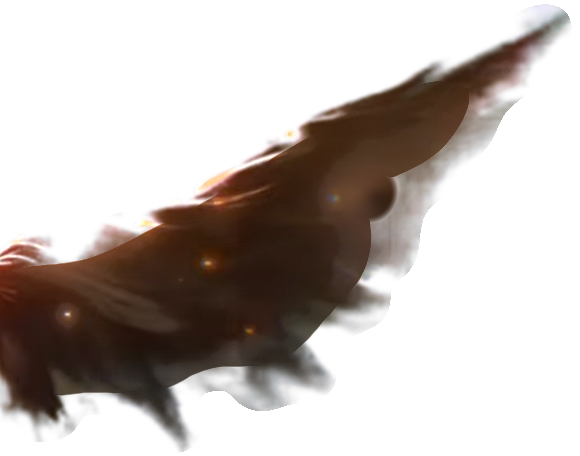
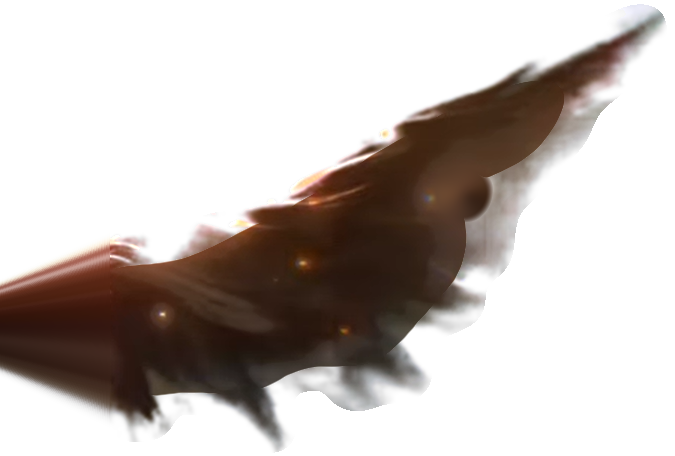
Inkweaver ult: the reference wing shot, frame for frame
- New front-on shot (2.4-4.4 s): a backdrop plate cut from the reference art (wings and her removed,
  halo ring, light shaft and chest glow painted back in) sits in front of the camera, sized to the
  letterboxed frame; the camera stands where her 1.66 m matches her height in the art and the wing
  root lands on the same art pixel, so the wings (cut from the same art) line up with it exactly.
- Wings now carry on behind her body to her spine (shared root), tips feathered where the art's
  frame cut them.
- New floating pose for the ult (inkAscend): right leg long, left knee drawn up, arms loose.
- Ult is 10.2 s; the title card and lines move after the wing shot.

Claude-Session: https://claude.ai/code/session_018wF3jSPkXDL57bnBk3Q189

diff --git a/src/game/match.js b/src/game/match.js
@@ -11,9 +11,11 @@ import '../fx/limitless.js';
 import '../fx/melee.js';
 import '../fx/heavenly.js';
 import { ChessWorld, miniBoard, MONO as MONO_PAL } from '../fx/chess.js';
-import '../fx/ink.js';
+import { PLATE, WING_ROOT } from '../fx/ink.js';
 import { CHECKMATE, ROOK, QUEEN } from './manipulator.js';
-import { ORB as INK_ORB, ERUPT as INK_ERUPT, TALISMAN } from './inkweaver.js';
+import { ORB as INK_ORB, ERUPT as INK_ERUPT, TALISMAN, WING_SHOT } from './inkweaver.js';
+const PLATE_D = 16;        // metres from the camera to the wing shot's backdrop plate
+const CINE_BAND = 0.78;    // the part of the screen height between the cutscene bars (11vh each)
 import { UnlimitedVoid } from '../world/void.js';
 import { BLUE, RED, PURPLE, VOID } from './sorcerer.js';
 import { FREEZE, BLITZ, ZERO } from './shoto.js';
@@ -1676,7 +1678,7 @@ export class Match {
     if (this.cine) this._endCine();
     const victims = [...this.ents.values()].filter((t) => t !== e && t.alive && Math.hypot(t.pos.x - c.x, t.pos.z - c.z) < TALISMAN.radius);
     this._tali = { c, f, side, caster: e, victims, done: false, rainT: 0 };
-    if (e.view) e.view.anim.play('nova');
+    if (e.view) e.view.anim.play('inkAscend');
     this.cine = { t: 0, dur: TALISMAN.cine, caster: e, c: c.clone(), o: c.clone(), f, side, cue: 0, local,
       update: this._taliCineUpdate, camera: this._taliCineCamera, end: this._taliCineEnd };
     this.app.hud.cineStart('ENDLESS TALISMAN SUPPRESSION', '');
@@ -1690,12 +1692,14 @@ export class Match {
     const until = () => !this._tali || this._tali.done;
     const cues = [
       [0.05, () => { this.fx.taiChiArray(T.c, 6.5, TALISMAN.cine - 0.3, { spin: 0.5 }); mono('Ink becomes wings. Wings become heaven.'); }],
-      [0.9, () => { if (e.view) this.fx.inkWings((out) => e.view.rig.bones[3].getWorldPosition(out), () => Math.atan2(T.f.x, T.f.z), 1.0, Infinity, { spread: 0.8, flap: 0.04, until, halo: true }); this.sound('domain', T.c, 1.1, 150); this.fx.shake(0.3); }],
-      [1.9, () => { this.fx.talismanHalo(T.c, this.map.Q.particles <= 2000 ? 36 : 80, 24, 15, () => !this._tali || this._tali.done || this._tali.haloDown); mono(''); }],
-      [2.4, () => { hud.flash(0.6); hud.cineCard('ENDLESS TALISMAN SUPPRESSION', '無 窮 符 鎮', ''); }],
-      [3.0, () => mono('Heaven and earth, hear my command.')],
-      [4.7, () => mono('Every talisman a seal. Every seal a sentence.')],
-      [6.3, () => mono('Be still.')],
+      [0.9, () => { if (e.view) T.wings = this.fx.inkWings((out) => e.view.rig.bones[3].getWorldPosition(out), () => Math.atan2(T.f.x, T.f.z), 1.0, Infinity, { spread: 0.8, flap: 0.025, until, halo: true, bare: () => !!(this._tali && this._tali.plate) }); this.sound('domain', T.c, 1.1, 150); this.fx.shake(0.3); }],
+      [1.9, () => { T.halo = this.fx.talismanHalo(T.c, this.map.Q.particles <= 2000 ? 36 : 80, 24, 15, () => !this._tali || this._tali.done || this._tali.haloDown, () => !!(this._tali && this._tali.plate)); mono(''); }],
+      // the reference shot: front-on, level, her wings filling the frame against the light behind her
+      [WING_SHOT[0], () => { hud.flash(0.45); T.plate = this.fx.inkPlate(); }],
+      [WING_SHOT[1], () => { this._taliPlateOff(); hud.flash(0.35); hud.cineCard('ENDLESS TALISMAN SUPPRESSION', '無 窮 符 鎮', ''); }],
+      [WING_SHOT[1] + 0.5, () => mono('Heaven and earth, hear my command.')],
+      [WING_SHOT[1] + 2.1, () => mono('Every talisman a seal. Every seal a sentence.')],
+      [WING_SHOT[1] + 3.4, () => mono('Be still.')],
       [TALISMAN.boom - 0.12, () => { mono(''); hud.impactFrames(() => hud.flash(1)); }],
       // the finale: every talisman in the sky comes down at once, each one detonating where it lands
       [TALISMAN.boom - 0.75, () => {
@@ -1713,7 +1717,7 @@ export class Match {
     ];
     while (C.cue < cues.length && t >= cues[C.cue][0]) cues[C.cue++][1]();
     // she rises on her wings, and comes back down at the end
-    e.liftY = t < 0.9 ? 0 : t < 2.4 ? 6 * (1 - Math.cos((t - 0.9) / 1.5 * Math.PI)) / 2 : t < TALISMAN.cine - 1.1 ? 6 + Math.sin(t * 1.6) * 0.25 : 6 * Math.max(0, (TALISMAN.cine - 0.1 - t) / 1.0);
+    e.liftY = t < 0.9 ? 0 : t < WING_SHOT[0] ? 6 * (1 - Math.cos((t - 0.9) / 1.5 * Math.PI)) / 2 : t < TALISMAN.cine - 1.1 ? 6 + Math.sin(t * 1.6) * 0.25 : 6 * Math.max(0, (TALISMAN.cine - 0.1 - t) / 1.0);
     // the rain: talismans across the whole field, more and more of them, and on every victim
     if (t > r0 && t < r1) {
       T.rainT -= dt;
@@ -1728,12 +1732,17 @@ export class Match {
         if (t - dt < tk - 0.35 && t >= tk - 0.35) for (const v of T.victims) if (v.alive) this.fx.talismanStrike(v.pos.clone(), 0, 1.3);
       }
     }
-    hud.cineDark(t < 0.9 ? 0.35 : t < TALISMAN.boom ? 0.2 : 0.1);
+    hud.cineDark(T.plate ? 0 : t < 0.9 ? 0.35 : t < TALISMAN.boom ? 0.2 : 0.1);
     if (t >= C.dur) this._endCine();
   }
-  _taliCineEnd() {
+  _taliPlateOff() {
     const T = this._tali;
-    if (T) { T.done = true; T.caster.liftY = 0; }
+    if (T && T.plate) { this.scene.remove(T.plate); T.plate.material.dispose(); T.plate = null; }
+  }
+  _taliCineEnd() {
+    this._taliPlateOff();
+    const T = this._tali;
+    if (T) { T.done = true; T.caster.liftY = 0; if (T.caster.view) T.caster.view.anim.stopAction(['inkAscend']); }
     this._tali = null;
     for (const e of this.ents.values()) if (e.alive) e.view.root.visible = true;
   }
@@ -1753,21 +1762,19 @@ export class Match {
       const k = ease((t - 0.9) / 1.5);
       P.set(o.x - f.x * (4 + k * 2) + sd.x * 1.4, o.y + 0.6, o.z - f.z * (4 + k * 2) + sd.z * 1.4);
       L.set(head.x, head.y + 0.6, head.z); fov = 52; roll = -0.03;
-    } else if (t < 3.2) { // wide, from in front: hanging in the sky inside her ring of talismans
-      const k = ease((t - 2.4) / 0.8);
-      P.set(o.x + f.x * (16 + k * 4), o.y + 3 + lift * 0.5, o.z + f.z * (16 + k * 4));
-      L.set(o.x, o.y + 4 + lift, o.z); fov = 50;
-    } else if (t < 5.0) { // high over her shoulder: the talismans come down across the whole field
-      const k = ease((t - 3.2) / 1.8), a = Math.atan2(f.x, f.z) + Math.PI + k * 0.5;
+    } else if (t < WING_SHOT[1] && T.plate) { // the reference shot (see _wingShot)
+      fov = this._wingShot(T, t - WING_SHOT[0], P, L);
+    } else if (t < WING_SHOT[1] + 1.8) { // high over her shoulder: the talismans come down across the whole field
+      const k = ease((t - WING_SHOT[1]) / 1.8), a = Math.atan2(f.x, f.z) + Math.PI + k * 0.5;
       P.set(o.x + Math.sin(a) * 6, o.y + lift + 4 + k * 3, o.z + Math.cos(a) * 6);
       L.set(o.x + f.x * 18, o.y, o.z + f.z * 18); fov = 60;
-    } else if (t < 6.3) { // on the ground among the pillars, looking up at her
+    } else if (t < WING_SHOT[1] + 3.1) { // on the ground among the pillars, looking up at her
       const v = T.victims.find((x) => x.view) || null, g = v ? v.pos : new THREE.Vector3(o.x + f.x * 12, o.y, o.z + f.z * 12);
-      const k = ease((t - 5.0) / 1.3);
+      const k = ease((t - WING_SHOT[1] - 1.8) / 1.3);
       P.set(g.x + sd.x * (2 - k), g.y + 0.8, g.z + sd.z * (2 - k));
       L.set(head.x, head.y + 0.5, head.z); fov = 50; roll = 0.04;
     } else if (t < TALISMAN.boom) { // her face, close: calm, eyes half closed
-      const k = ease((t - 6.3) / (TALISMAN.boom - 6.3));
+      const k = ease((t - WING_SHOT[1] - 3.1) / (TALISMAN.boom - WING_SHOT[1] - 3.1));
       P.set(head.x + f.x * (0.9 - k * 0.25) + sd.x * 0.15, head.y + 0.02, head.z + f.z * (0.9 - k * 0.25) + sd.z * 0.15);
       L.set(head.x, head.y, head.z); fov = 28;
     } else { // high and wide: the explosion swallows the field
@@ -1779,7 +1786,38 @@ export class Match {
     cam.position.copy(P); cam.lookAt(L);
     if (roll) cam.rotateZ(roll);
     if (Math.abs(cam.fov - fov) > 0.01) { cam.fov = fov; cam.updateProjectionMatrix(); }
+    if (T.plate) this._placePlate(T);
     return L;
+  }
+  // The front-on wing shot frames her exactly as the reference art does. The backdrop plate (the art
+  // with her and the wings taken out) sits PLATE_D metres in front of the camera, sized to cover the
+  // letterboxed frame; the camera then stands at the distance where her real 1.66 m matches her
+  // height in the art at that plate scale, shifted so the point where her wings meet her back lands
+  // on the same art pixel. Wings (cut from the same art, metre-sized at her scale) line up with it.
+  _wingShot(T, t, P, L) {
+    const f = T.f;
+    const fov = 35 - Math.min(1, t / (WING_SHOT[1] - WING_SHOT[0])) * 2.2;      // a slow push in
+    const { ph } = this._plateSize(fov);
+    const k = 1.66 / PLATE.body_px, mp = ph / PLATE.h;
+    const d = k * PLATE_D / mp;
+    const xr = (PLATE.root[0] - PLATE.w / 2) * k, yr = -(PLATE.root[1] - PLATE.h / 2) * k;
+    const root = this._wingRoot || (this._wingRoot = new THREE.Vector3());
+    if (T.wings) T.wings.localToWorld(root.copy(WING_ROOT)); else root.set(T.c.x, T.c.y + 7.3, T.c.z);
+    const rx = f.z, rz = -f.x;                                                     // camera right (her left)
+    P.set(root.x - rx * xr + f.x * d, root.y - yr, root.z - rz * xr + f.z * d);
+    L.set(P.x - f.x, P.y, P.z - f.z);
+    return fov;
+  }
+  _plateSize(fov) {
+    const cam = this.camera, th = Math.tan(fov * Math.PI / 360);
+    const Hf = 2 * PLATE_D * th, Wf = Hf * cam.aspect, Hb = Hf * CINE_BAND, ra = PLATE.w / PLATE.h;
+    return Wf / Hb > ra ? { pw: Wf, ph: Wf / ra } : { pw: Hb * ra, ph: Hb };
+  }
+  _placePlate(T) {
+    const cam = this.camera, m = T.plate, { pw, ph } = this._plateSize(cam.fov);
+    m.quaternion.copy(cam.quaternion);
+    m.position.set(0, 0, -PLATE_D).applyQuaternion(cam.quaternion).add(cam.position);
+    m.scale.set(pw, ph, 1);
   }
 
   // ---------------------------------------------------------------- Domain Expansion: Unlimited Void

diff --git a/src/fx/ink.js b/src/fx/ink.js
@@ -22,10 +22,20 @@ function canvasTex(key, w, h, paint) {
   return (TEX[key] = t);
 }
 // The wings themselves are cut straight from the reference art (public/fx/wing_l.png / wing_r.png,
-// tools/fx/cut_wings.py): w × h in metres at her scale, and where the wing meets her back (ru, rv:
+// tools/fx/cut_wings.py): w × h in metres at her scale, and where the wing meets her spine (ru, rv:
 // 0..1 across / down the image). Both images have the root on their left edge.
-const WING = {"L": {"w": 2.9, "h": 2.28, "ru": 0.0034, "rv": 0.5833}, "R": {"w": 2.74, "h": 2.165, "ru": 0.0036, "rv": 0.5427}};
+export const WING = {"L": {"w": 3.375, "h": 2.28, "ru": 0.0, "rv": 0.7149}, "R": {"w": 3.035, "h": 2.165, "ru": 0.0, "rv": 0.612}};
+// the backdrop for the front-on shot: the same art with the wings and her taken out (fx/wing_plate.jpg),
+// its size in pixels, the art pixel where both wings meet her back, and her height in art pixels
+export const PLATE = {"w": 1282, "h": 622, "root": [607, 360], "body_px": 332.0};
+// where the wings meet her back, in the wing group's frame
+export const WING_ROOT = new THREE.Vector3(0, 0.06, -0.16);
 const WTEX = {};
+let PLATE_TEX = null;
+function plateImg() {
+  if (!PLATE_TEX) { PLATE_TEX = new THREE.TextureLoader().load('fx/wing_plate.jpg'); PLATE_TEX.colorSpace = THREE.SRGBColorSpace; }
+  return PLATE_TEX;
+}
 function wingImg(side) {
   if (!WTEX[side]) { WTEX[side] = new THREE.TextureLoader().load(side === 'L' ? 'fx/wing_l.png' : 'fx/wing_r.png'); WTEX[side].colorSpace = THREE.SRGBColorSpace; WTEX[side].anisotropy = 4; }
   return WTEX[side];
@@ -116,6 +126,7 @@ Object.assign(Fx.prototype, {
   inkWings(anchor, yawOf, size = 3, life = 1.2, o = {}) {
     const mk = (side) => new THREE.Mesh(plane(), new THREE.MeshBasicMaterial({ map: wingImg(side), transparent: true, depthWrite: false, side: THREE.DoubleSide, toneMapped: false, color: new THREE.Color(1.12, 1.08, 1.04) }));
     const L = mk('L'), Rw = mk('R');
+    plateImg();
     const g = new THREE.Group(); g.add(L, Rw); this.scene.add(g);
     // a warm glow behind her back and a thin halo ring (the reference's backlight)
     const glow = o.halo ? new THREE.Sprite(new THREE.SpriteMaterial({ map: glowTex(), transparent: true, depthWrite: false, blending: THREE.AdditiveBlending, toneMapped: false, color: new THREE.Color(1.6, 1.25, 0.8) })) : null;
@@ -137,14 +148,16 @@ Object.assign(Fx.prototype, {
       for (const [w, sd, M] of [[L, 1, WING.L], [Rw, -1, WING.R]]) {
         // her left wing extends to her left (+x); the right one is the mirrored image
         w.scale.set(sd * M.w * s, M.h * s, 1);
-        const a = sd * ((1 - open) * 1.3 + 0.08 + f);                     // swing about the root (folded → open)
+        const a = sd * ((1 - open) * 1.3 + 0.03 + f);                     // swing about the root (folded → open)
         w.rotation.set(0, a, 0);
         // put the image's root point (where the wing meets her back) on the spine, behind the shoulders
         const rx = sd * M.w * s * (M.ru - 0.5), ry = M.h * s * (0.5 - M.rv);
-        w.position.set(-rx * Math.cos(a), 0.06 - ry, -0.16 + rx * Math.sin(a));
+        w.position.set(WING_ROOT.x - rx * Math.cos(a), WING_ROOT.y - ry, WING_ROOT.z + rx * Math.sin(a));
         w.material.opacity = fade;
       }
       if (glow) {
+        const bare = !!(o.bare && o.bare());   // the backdrop plate carries its own ring, shaft and glow
+        glow.visible = ring.visible = shaft.visible = !bare;
         const pulse = 1 + Math.sin(t * 2) * 0.05;
         glow.position.set(0, 0.2, -0.4); glow.scale.setScalar(s * 1.9 * e * pulse); glow.material.opacity = fade * 0.9;
         ring.position.set(0, 0.0, -0.35); ring.scale.setScalar(s * 0.68 * e); ring.material.opacity = fade * 0.8;
@@ -159,6 +172,13 @@ Object.assign(Fx.prototype, {
       return true;
     } });
     return g;
+  },
+
+  // the backdrop plate of the front-on wing shot (a plane the caller keeps in front of the camera)
+  inkPlate() {
+    const m = new THREE.Mesh(plane(), new THREE.MeshBasicMaterial({ map: plateImg(), fog: false, toneMapped: false }));
+    m.frustumCulled = false; this.scene.add(m);      // opaque, writes depth: the world behind it is gone
+    return m;
   },
 
   // ---------------------------------------------------------------- Ink Manifestation
@@ -336,7 +356,7 @@ Object.assign(Fx.prototype, {
     } });
   },
   // a ring of talismans hanging in the sky round the caster, slowly turning (until() → true ends it)
-  talismanHalo(c, n, r, h, until) {
+  talismanHalo(c, n, r, h, until, hide = null) {
     const mat = new THREE.MeshBasicMaterial({ map: taliTex(), transparent: true, depthWrite: false, side: THREE.DoubleSide, toneMapped: false, color: new THREE.Color(1.6, 1.35, 1.0) });
     const im = new THREE.InstancedMesh(plane(), mat, n);
     im.frustumCulled = false; this.scene.add(im);
@@ -353,6 +373,7 @@ Object.assign(Fx.prototype, {
         im.setMatrixAt(i, m4);
       });
       im.instanceMatrix.needsUpdate = true;
+      im.visible = !(hide && hide());
       mat.opacity = Math.min(1, t / 0.5);
       if (until()) { this.scene.remove(im); im.dispose(); mat.dispose(); return false; }
       return true;

diff --git a/src/character/clips.js b/src/character/clips.js
@@ -1178,3 +1178,23 @@ export const MN_D = compileClip([
   { t: 0.48, ease: 'smooth', hip: [0, -0.1, 0.12], ik: MN_LUNGE, b: { ...MN_STANCE, hips: [8, 18, 0], chest: [6, 16, 0] } },
   { t: 0.7, ease: 'smooth', hip: [0, -0.04, 0], ik: MN_FEET, b: MN_STANCE },
 ]);
+
+// ================================================================== Inkweaver: Endless Talisman Suppression
+// she lifts off the Tai Chi array and hangs in the air on her wings (the reference art): her right leg
+// hangs long with the toe pointed, the left knee drawn up with the foot tucked behind the right shin,
+// arms loose and a little out from her sides with open hands, head tipped gently to her left
+const ASCEND = {
+  hips: [-4, 0, 3], spine: [-3, 0, -2], chest: [-2, 0, 0], neck: [2, 0, 3], head: [6, 4, 8],
+  upperLegL: [-62, -6, 7], lowerLegL: [120, 0, 0], footL: [42, 0, 0],
+  upperLegR: [4, -2, -4], lowerLegR: [6, 0, 0], footR: [50, 0, 0],
+  upperArmL: [-4, 0, 17], foreArmL: [-34, 0, 0], handL: [8, 0, -18],
+  upperArmR: [-4, 0, 17], foreArmR: [-34, 0, 0], handR: [8, 0, -18],
+};
+export const INK_ASCEND = compileClip([
+  { t: 0, hip: [0, -0.03, 0], ik: STAND, b: { spine: [2, 0, 0], upperArmL: [-10, 0, 14], upperArmR: [-10, 0, 14] } },
+  { t: 0.45, ease: 'smooth', hip: [0, -0.06, 0], ik: STAND, b: { spine: [4, 0, 0], head: [-4, 0, 0], upperArmL: [-14, 0, 22], foreArmL: [-30, 0, 0], upperArmR: [-14, 0, 22], foreArmR: [-30, 0, 0] } },
+  { t: 1.3, ease: 'smooth', hip: [0, 0, 0], b: ASCEND },
+  { t: 3.4, ease: 'smooth', hip: [0, 0.02, 0], b: { ...ASCEND, head: [5, 3, 9], upperArmL: [-3, 0, 19], upperArmR: [-3, 0, 19] } },
+  { t: 6.0, ease: 'smooth', hip: [0, 0, 0], b: { ...ASCEND, head: [7, 5, 7] } },
+  { t: 10.4, ease: 'smooth', hip: [0, 0.01, 0], b: ASCEND },
+]);

diff --git a/src/game/inkweaver.js b/src/game/inkweaver.js
@@ -39,7 +39,9 @@ export const INK_M1 = {
 export const RUSH = { dash: 7, dashT: 0.16, beats: [0.2, 0.42, 0.66], range: 3.3, cone: 0.25, dmg: [10, 10, 18], stun: [0.6, 0.6, 0.9] };
 export const ORB = { range: 30, delay: 0.25, life: 2.2, pullR: 9.5, coreR: 3.2, pull: 22, tick: 0.25, tickDmg: 3, burst: 16, burstR: 6, burstKb: 14 };
 export const ERUPT = { charge: 0.62, len: 18, width: 3.6, near: 4.2, dmg: 36, up: 11, kb: 18 };
-export const TALISMAN = { cine: 9.0, rain: [3.2, 7.0], radius: 34, strikes: 6, strikeDmg: 6, boom: 7.6, boomDmg: 70, boomR: 34 };
+export const TALISMAN = { cine: 10.2, rain: [4.4, 8.2], radius: 34, strikes: 6, strikeDmg: 6, boom: 8.8, boomDmg: 70, boomR: 34 };
+// the front-on wing shot of the ultimate (the reference art), seconds into the cutscene
+export const WING_SHOT = [2.4, 4.4];
 
 const COOLDOWN = { rush: 8, orb: 10, erupt: 14 };
 const cdOf = (base) => (BAL.noCooldowns ? 0 : base * BAL.cd);

diff --git a/src/character/animator.js b/src/character/animator.js
@@ -37,6 +37,7 @@ const ACTIONS = {
   death: { clip: C.DEATH, in: 0.06, out: 0, hold: true, aimOff: true, staffBody: true },
   plant: { clip: C.M_PLANT, in: 0.06, out: 0.18 },
   nova: { clip: C.M_NOVA, in: 0.08, out: 0.2, upright: [0.2, 1.8], twoHand: [0.15, 99] },
+  inkAscend: { clip: C.INK_ASCEND, in: 0.1, out: 0.3, aimOff: true },
   exhausted: { clip: C.M_EXHAUSTED, in: 0.05, out: 0.25, aimOff: true },
   respawn: { clip: C.RESPAWN, in: 0.02, out: 0.2, aimOff: true, freeProp: true },
   kick: { clip: C.KICK_CLIP, in: 0.03, out: 0.14, aimOff: true },

diff --git a/tools/fx/cut_wings.py b/tools/fx/cut_wings.py
@@ -77,16 +77,59 @@ wcol=np.stack([gblur(col2[...,c]*alpha2,12) for c in range(3)],-1)/np.maximum(gb
 alpha2=np.maximum(alpha2,disc*0.97); col2=col2*(1-disc[...,None])+wcol*disc[...,None]
 xs=np.arange(W)[None,:]
 alpha2=alpha2*np.where((xs>548)&(xs<702),0.0,1.0)
-# ---- crops (each wing: its bounding box) with the shoulder point marked
+# ---- carry each wing in behind her body to her spine: the wing's inner edge (where it vanishes
+# behind her) is extended to the centre line, narrowing as it goes, so seen from any side the wing
+# grows out of her back; seen from the front her body covers the extension exactly as in the art
+CX, RY = 607, 360                     # her centre line, and the height where both wings meet her back
+yy,xx=np.indices((H,W))
+smooth_a=gblur(alpha2,3); smooth_c=np.stack([gblur(col2[...,c]*alpha2,3) for c in range(3)],-1)/np.maximum(smooth_a,1e-3)[...,None]
+for x0, x1, edge in ((CX, 717, 717), (531, CX, 531)):          # from just outside her hair / cloak
+    xs_=np.arange(x0,x1); u=np.abs(xs_-CX)/abs(edge-CX)           # 0 at the spine .. 1 at the edge column
+    sc=0.5+0.5*u
+    for i,x in enumerate(xs_):
+        src=np.clip(np.round(RY+(np.arange(H)-RY)/sc[i]).astype(int),0,H-1)
+        alpha2[:,x]=smooth_a[src,edge]; col2[:,x]=smooth_c[src,edge]*(0.8+0.2*u[i])
+# soften the edges where the art's frame cut the wing tips off
+edge=ss(0,14,xx.astype(np.float32))*ss(0,14,(W-1-xx).astype(np.float32))
+alpha2=alpha2*edge
+# ---- crops (each wing: its bounding box) with the root on the spine
 body_px=332.0; body_m=1.66
-def crop(x0,x1,root,flip,name):
+def crop(x0,x1,flip,name):
     al=alpha2[:,x0:x1]; rows=np.where(al.max(1)>0.03)[0]; y0,y1=max(0,rows.min()-4),min(H,rows.max()+4)
     rgba=np.dstack([col2[y0:y1,x0:x1],al[y0:y1]])
     img=Image.fromarray((np.clip(rgba,0,1)*255+0.5).astype(np.uint8),'RGBA')
-    rx,ry=root[0]-x0,root[1]-y0; w,h=img.size
+    rx,ry=CX-x0,RY-y0; w,h=img.size
     if flip: img=img.transpose(Image.FLIP_LEFT_RIGHT); rx=w-rx
     img.save(os.path.join(OUTDIR, name + '.png'), optimize=True)
     return {'w': round(w/body_px*body_m,3), 'h': round(h/body_px*body_m,3), 'ru': round(rx/w,4), 'rv': round(ry/h,4)}
 os.makedirs(OUTDIR, exist_ok=True)
-meta={'L': crop(702,1282,(704,300),False,'wing_l'), 'R': crop(0,548,(546,330),True,'wing_r')}
+meta={'L': crop(CX,W,False,'wing_l'), 'R': crop(0,CX,True,'wing_r')}
+# ---- the backdrop plate for the front-on shot: the art with the wings and her taken out (filled
+# with the haze around them), and the light that was behind her painted back in: the halo ring,
+# the shaft of light through her, and the warm glow at her chest
+# wings: the haze estimate the wing colours were un-premultiplied against, so wing over plate gives back
+# the art exactly; her: the light around her, filled in from her surroundings
+holew=(gblur((alpha2>0.02).astype(np.float32),4)>0.05).astype(np.float32)
+her=np.clip(1-np.maximum(np.abs(xx-CX)/80.0, np.where(yy<255,(255-yy)/6.0,np.where(yy>600,(yy-600)/6.0,0))),0,1)
+holeh=(her>0).astype(np.float32)
+keep=(1-np.maximum(holew,holeh))
+def nfill(s):
+    w=gblur(keep,s); return np.stack([gblur(a[...,c]*keep,s) for c in range(3)],-1)/np.maximum(w,1e-4)[...,None], w
+f1,w1=nfill(10); f2,w2=nfill(30); f3,w3=nfill(80)
+fill=np.where((w1>0.25)[...,None],f1,np.where((w2>0.2)[...,None],f2,f3))
+fill=np.stack([gblur(fill[...,c],4) for c in range(3)],-1)
+hw=gblur(holew,2)[...,None]; hs=gblur(holeh,8)[...,None]
+plate=a*(1-hw)+bg*hw
+plate=plate*(1-hs)+fill*hs
+# painted light inside the hole only (outside it the art has its own)
+gold=np.array([1.0,0.78,0.45],np.float32)
+rr=np.hypot(xx-CX,yy-357)
+ring=(np.exp(-((rr-180)/1.6)**2)*0.4+np.exp(-((rr-180)/7)**2)*0.1)*(0.55+0.45*np.exp(-((xx-CX)/60.0)**2))
+ring=ring+np.exp(-((yy-537)/2.2)**2-((xx-CX)/55.0)**2)*0.9   # the flare where the ring meets the shaft below her
+shaft=(np.exp(-((xx-CX)/1.4)**2)*0.85+np.exp(-((xx-CX)/7)**2)*0.22)*ss(560,500,yy)
+glow=np.exp(-(np.hypot(xx-CX,(yy-318)*1.15)/70)**2)*0.55
+light=(ring+shaft+glow)[...,None]*gold*hs
+plate=1-(1-plate)*(1-np.clip(light,0,1))
+Image.fromarray((np.clip(plate,0,1)*255+0.5).astype(np.uint8)).save(os.path.join(OUTDIR,'wing_plate.jpg'),quality=90)
+meta['plate']={'w':W,'h':H,'root':[CX,RY],'body_px':body_px}
 print(json.dumps(meta))
